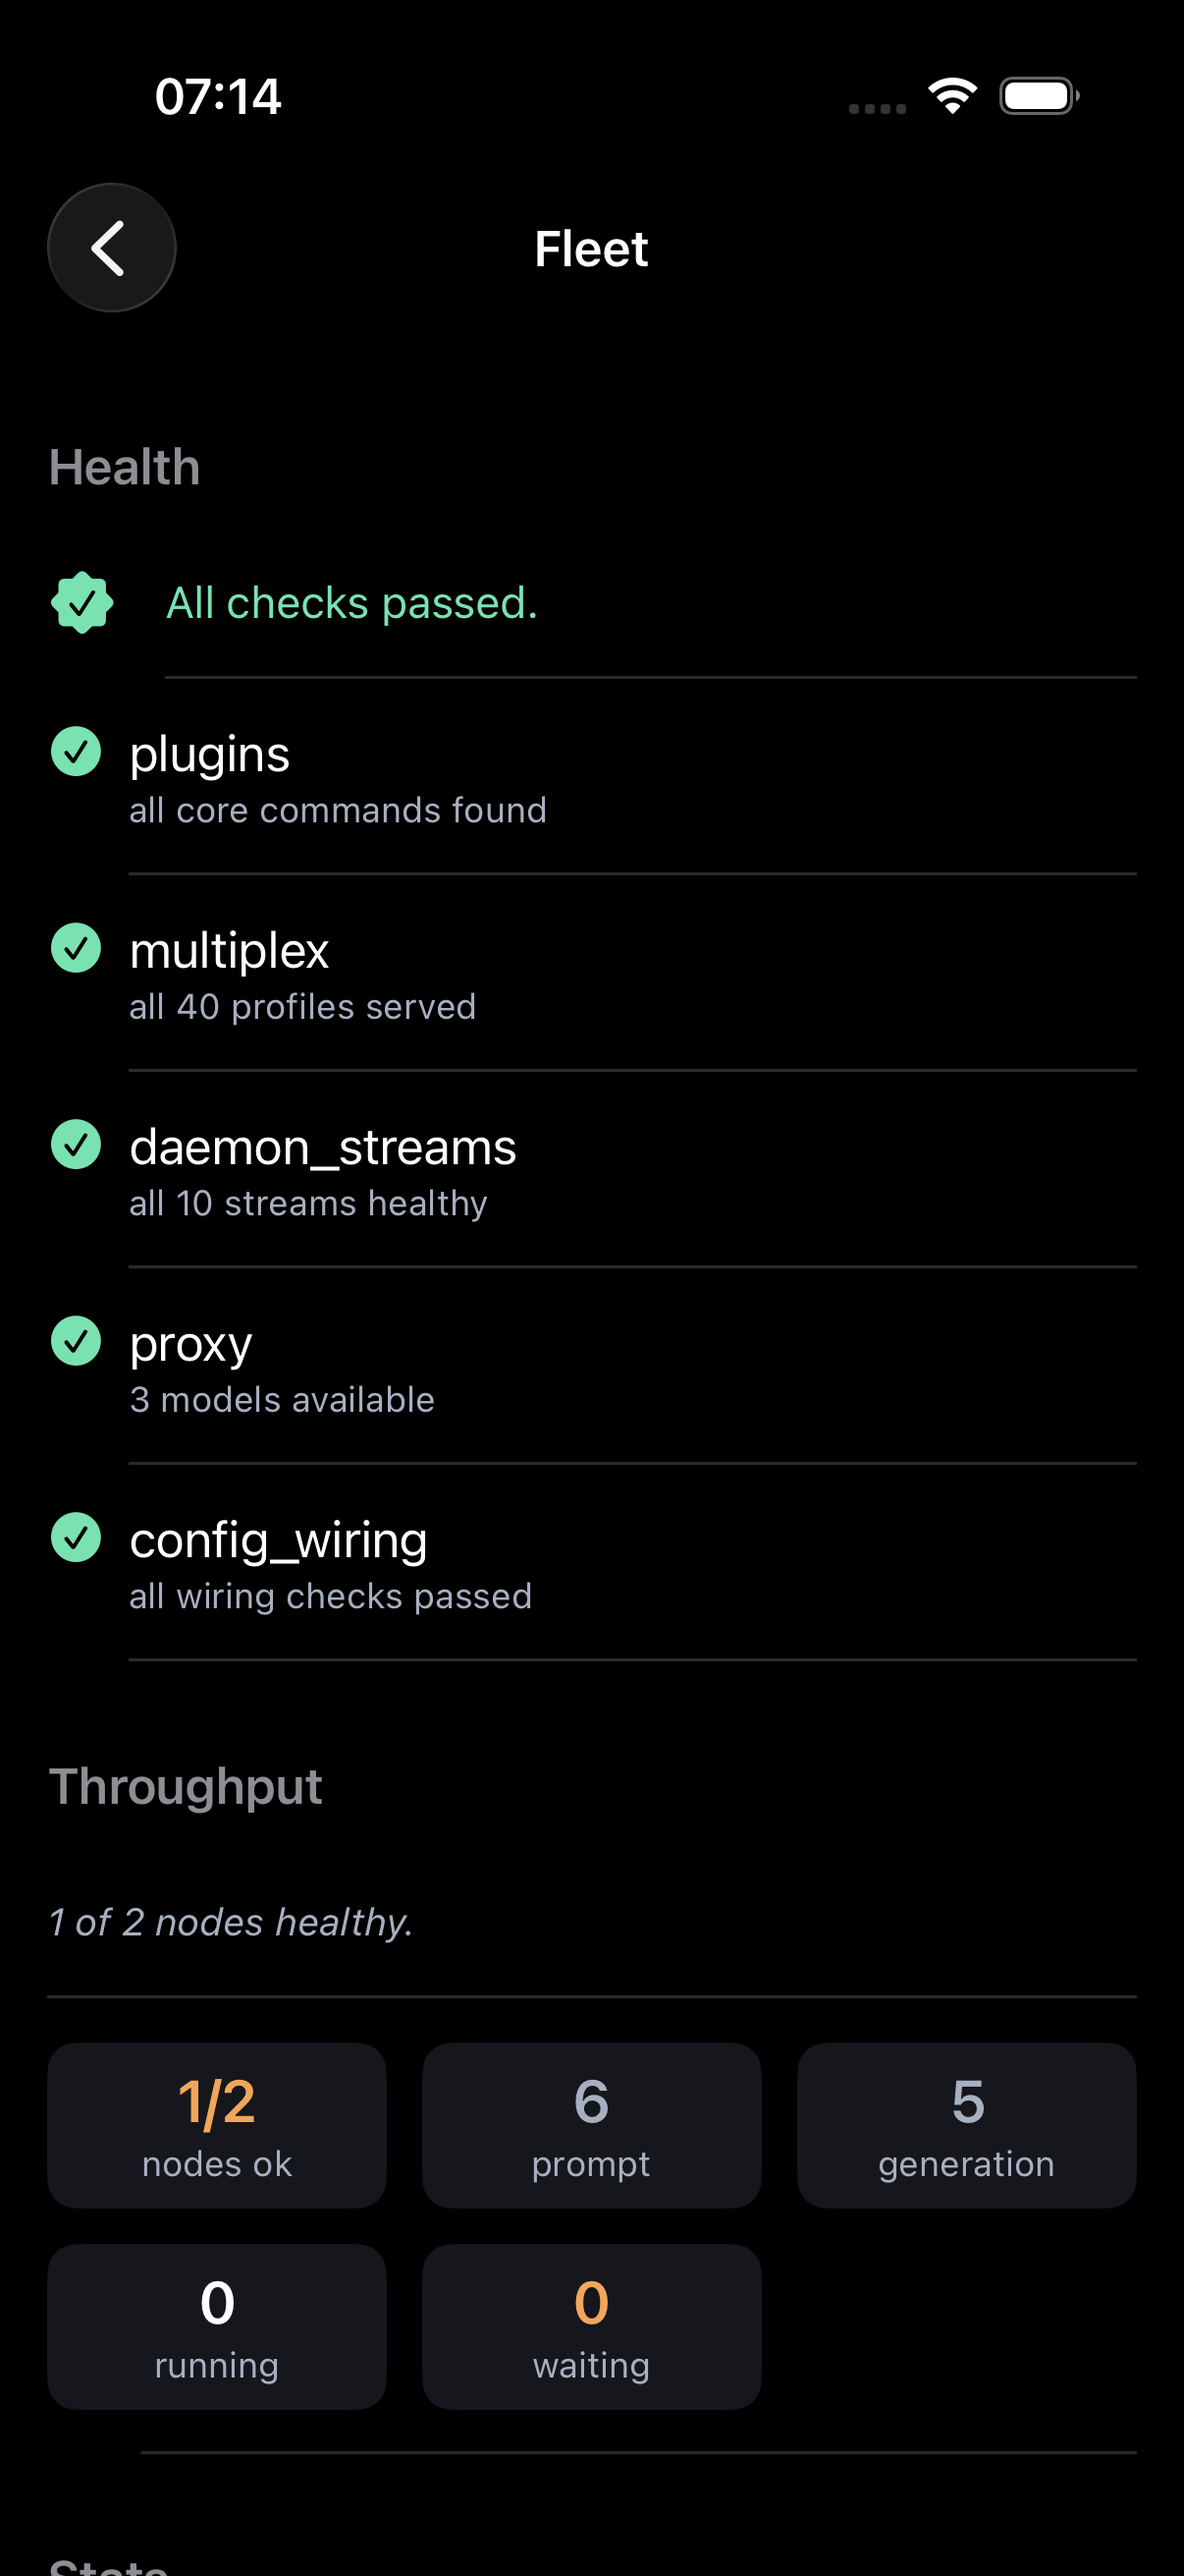
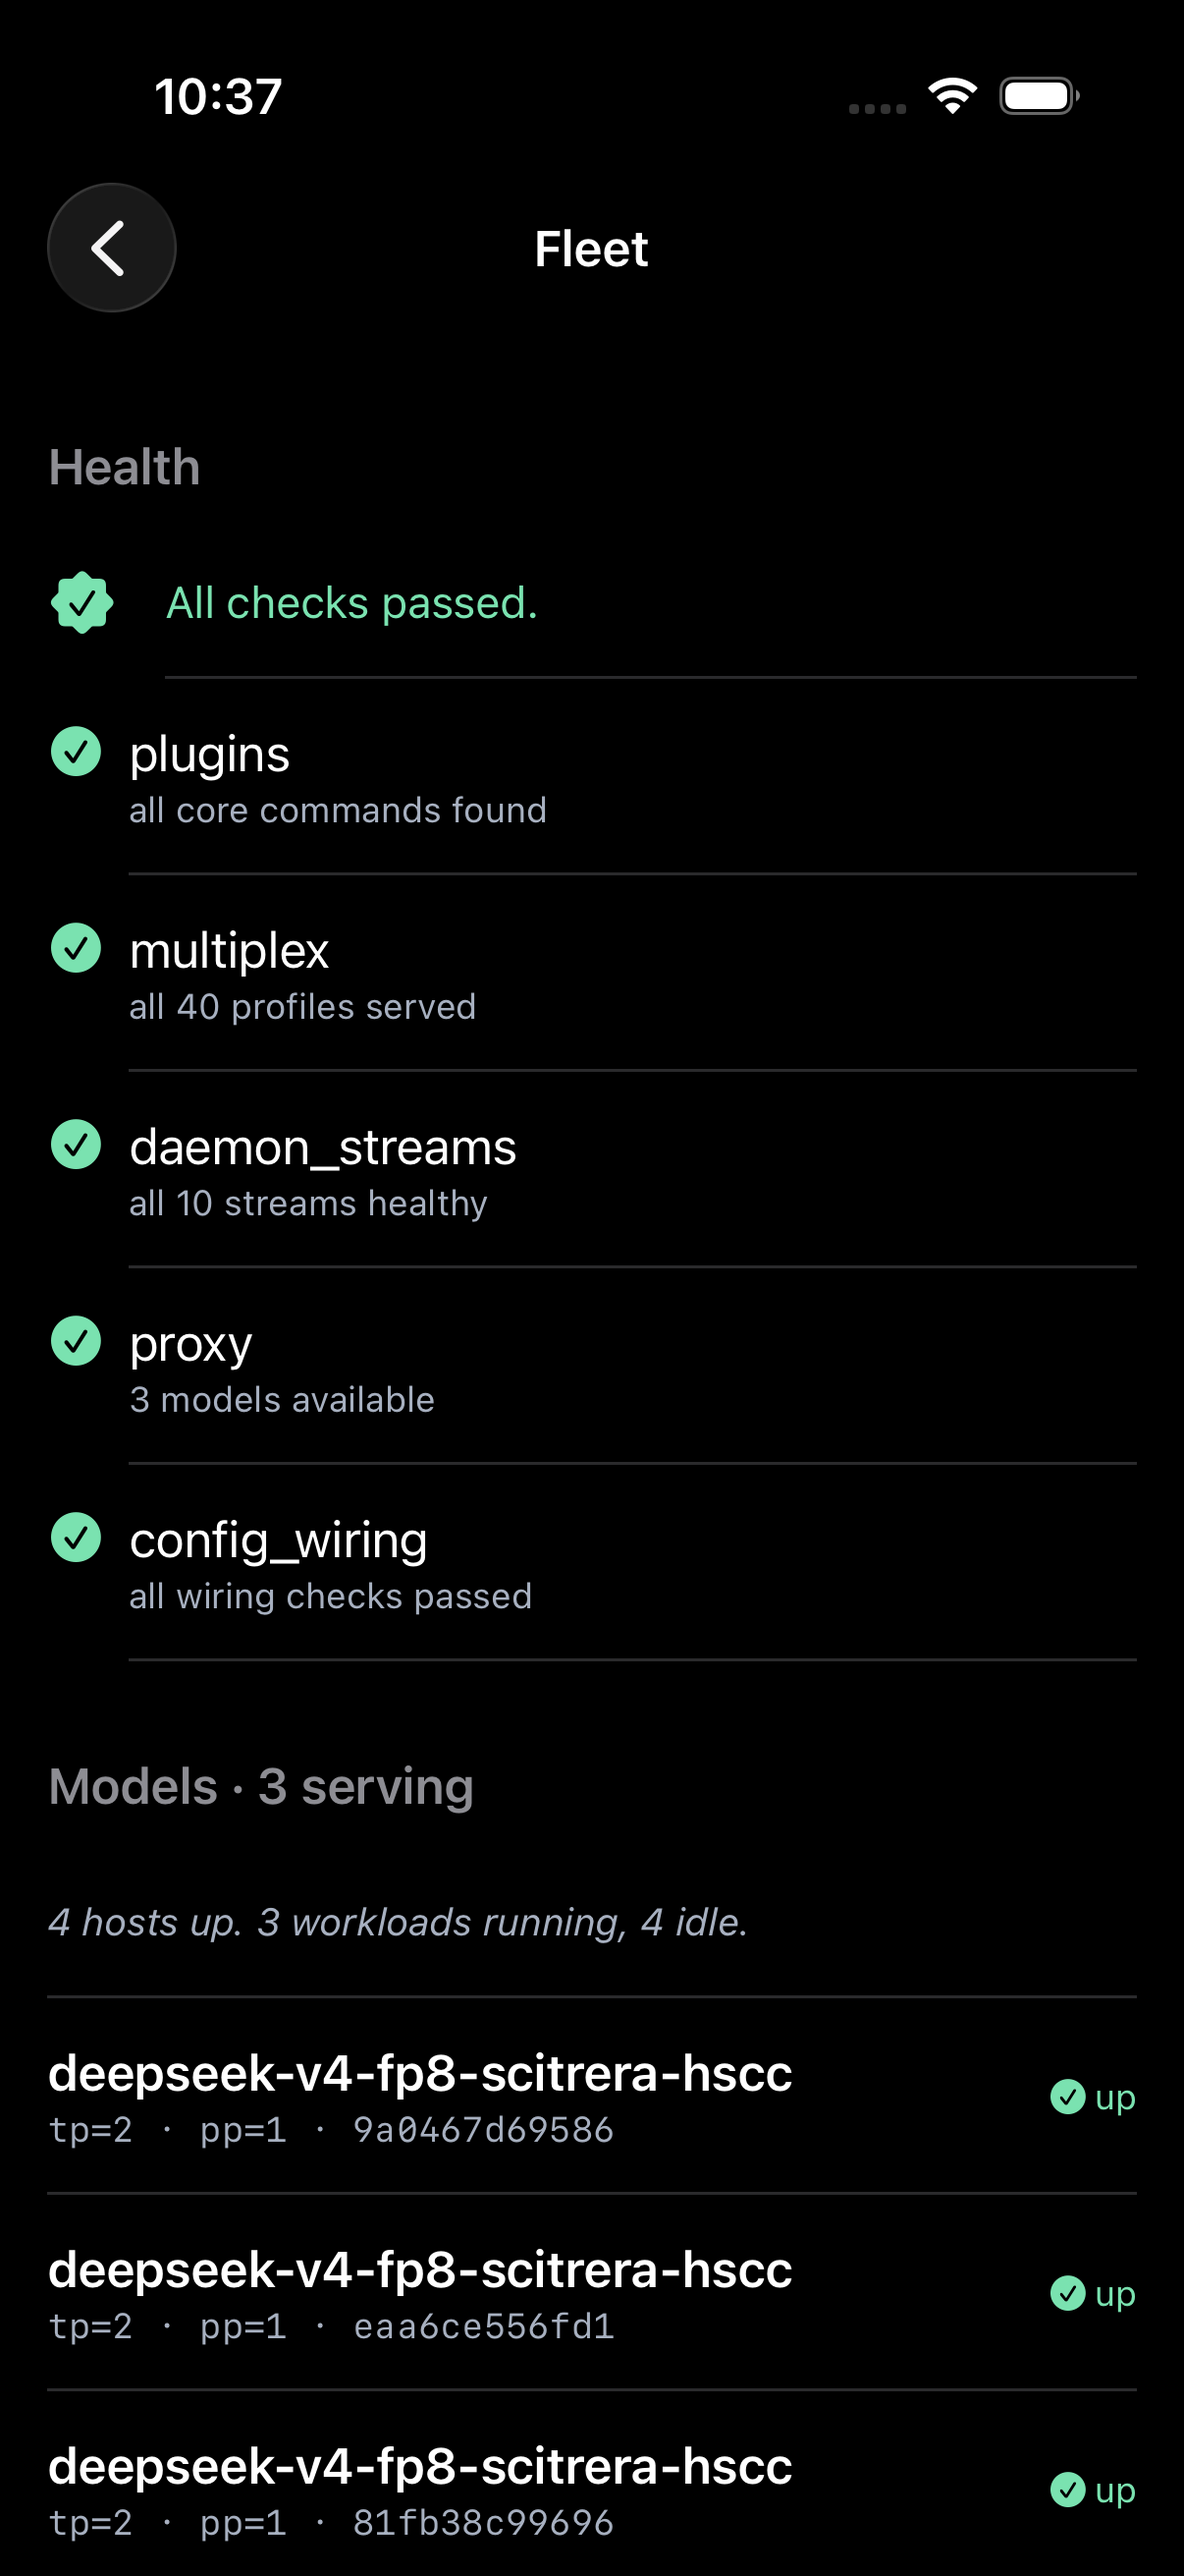
feat(ios) §5 t_2a29a7ab: Models section moves to #2 — where the mockup draws it and where the gate shot can prove it
Mockup frames 7/8 put "Models · 3 serving" directly under the
connection-state read; my first pass appended it after Autoscale. Beyond
fidelity, that placement made the card's own gate unreachable: the tap-free
harness photographs the List's TOP (no scroll mechanism exists, and building
one is out of scope for this card), so a screenshot "with the Models
section" could only ever show Health + Throughput. Section order is the
honest lever — no invented scroll env, no hand-edited PNG.

Gate shots re-captured from a fresh xcodebuild install through
capture_screens.sh's own recipe (simctl launch with
SIMCTL_CHILD_HSCC_DEBUG_FIXTURES=1 + HSCC_DEBUG_SCREEN=fleet), light+dark.
Vision-verified: "Health" then "Models · 3 serving" as sections 1-2, three
workload rows (recipe name trimmed to the model name — no /home/ path on
screen, the container-head captions distinguish the same-name replicas),
green "up" chips, no alert, no gate. Manifests refreshed (fleet served=10,
/v1/cluster/status included). Full 12-screen harness re-run against this
branch: DONE, every screen served >= 1 fixture.

diff --git a/ios-app/Sources/HSCC/Views/FleetView.swift b/ios-app/Sources/HSCC/Views/FleetView.swift
@@ -12,10 +12,14 @@ import SwiftUI
 /// a transient blip must not make the whole fleet look idle or down.
 ///
 /// LIST RECIPE (spec §5, Phase 2 C3): one plain `List` with one `Section` per
-/// feed — Health · Throughput · Stats · Streams · Autoscale · Models, then the
+/// feed — Health · Models · Throughput · Stats · Streams · Autoscale, then the
 /// two sections the retired `FleetControlView` folded into here ("Applied
 /// template" · "Control", work-log item 5 / §8 row "FleetView · FleetControlView
-/// | drawer · Fleet (+ Control section)"). The `HSSectionCard` boxes are gone;
+/// | drawer · Fleet (+ Control section)"). Models sits second on purpose: the
+/// mockup (frames 7/8) puts the serving feed first among Fleet's feeds, and the
+/// tap-free capture harness photographs the List's top, so the section order is
+/// the only honest lever for which feeds a gate shot can prove. The
+/// `HSSectionCard` boxes are gone;
 /// every feed keeps its own `LoadState`, and a feed that is loading/failed shows
 /// an inline row rather than a full-pane spinner so the feeds that DID load stay
 /// visible. The check rows render through the shared `HealthCheckList` (the §5
@@ -64,11 +68,18 @@ struct FleetView: View {
             if let client {
                 List {
                     healthSection
+                    // Models leads the traffic feeds deliberately (mockup
+                    // frames 7/8: the serving feed is Fleet's first serving
+                    // section, below only the connection-state read). It also
+                    // keeps the tap-free gate shot honest — the capture
+                    // harness photographs the top of the List, so a section
+                    // parked at #6 could never satisfy "screenshot with the
+                    // Models section" without inventing a scroll mechanism.
+                    modelsSection
                     throughputSection
                     statsSection
                     streamsSection
                     autoscaleSection
-                    modelsSection
                     appliedTemplateSection
                     controlSection(client: client)
                 }

diff --git a/ios-app/docs/design/PHASE2_PROGRESS_t_25aed701.md b/ios-app/docs/design/PHASE2_PROGRESS_t_25aed701.md
@@ -220,11 +220,40 @@ the recipe now; what remains is only the merges:
    The new read-only Models section (workload rows from
    `GET /v1/cluster/status`, the same feed ServingControl reads) ships as its
    own Phase 2 card.
+   → **SHIPPED by `t_2a29a7ab`** (`f9289bb3`): the Models section is now
+   Fleet's sixth feed — one row per `ClusterWorkload` (headline = recipe path
+   trimmed to the model name, mono caption with the same tp/pp + container
+   head the serving screen shows, trailing `HSStatusChip`), own `LoadState` +
+   `Offline.load` under `EndpointPath.clusterStatus`, whole row combined into
+   one VoiceOver element, **read-only** (Stop/Restart stay on "Nodes &
+   serving"). Row derivation is `Sources/HSCC/FleetServing.swift` compiled
+   verbatim by the new gate `scripts/fleet_models_check.sh` (48 assertions on
+   the live capture + adversarial edges + guarded negative test). Two defects
+   the gate pins shut: the naive headline would print the engine's recipe
+   PATH (a home directory) onto the screenshot, and `ClusterWorkload.id` is
+   the name while the live feed repeats one name per container — `ForEach`
+   over it is a SwiftUI duplicate-id bug the fixture provokes. The caption
+   shows what `/v1/cluster/status` actually carries (the mockup's per-model
+   nodes/stream counts are not in this payload; the ruling ruled out a second
+   endpoint, and inventing either is the colour-lie class §9 bans — same
+   reason the chip says "no container", never "waking": the feed proves
+   container presence, not direction).
 5. `FleetControlView` is on the recipe but is still its own drawer row; §8 wants
    it as a "Control section" of Fleet. Small, but it changes the drawer, so it
    belongs with the merge cards rather than with a restyle. No card yet —
    folded into whichever Fleet-touching merge lands first (the Models-section
    card created by the `t_1897550c` ruling).
+   → **LANDED with `t_2a29a7ab`** (same card, second half): the applied-
+   template Section (with the shared `AppliedTemplateStatus` render and its
+   `Offline.load`) and both confirm-gated up/down `MutationButton`s — prompts
+   VERBATIM — are now Sections of Fleet's List; the drawer's "Fleet Control"
+   row is gone and `.fleetControl` survives as a mapped alias (the `.selfHeal`
+   precedent), so deeplink_check stays 41/41. The mutations now refresh the
+   Models feed too (a "Stop All Workloads" that left stale "serving" rows
+   above it would lie). FleetView's client became optional with this — it was
+   the app's last non-optional one and `FleetViewPlaceholder` is deleted:
+   a screen hosting the fleet-wide kill switch must show the connect gate
+   when unconfigured, never render those buttons against a fake host.
 
 
 ## Screenshots (what each one actually shows)
